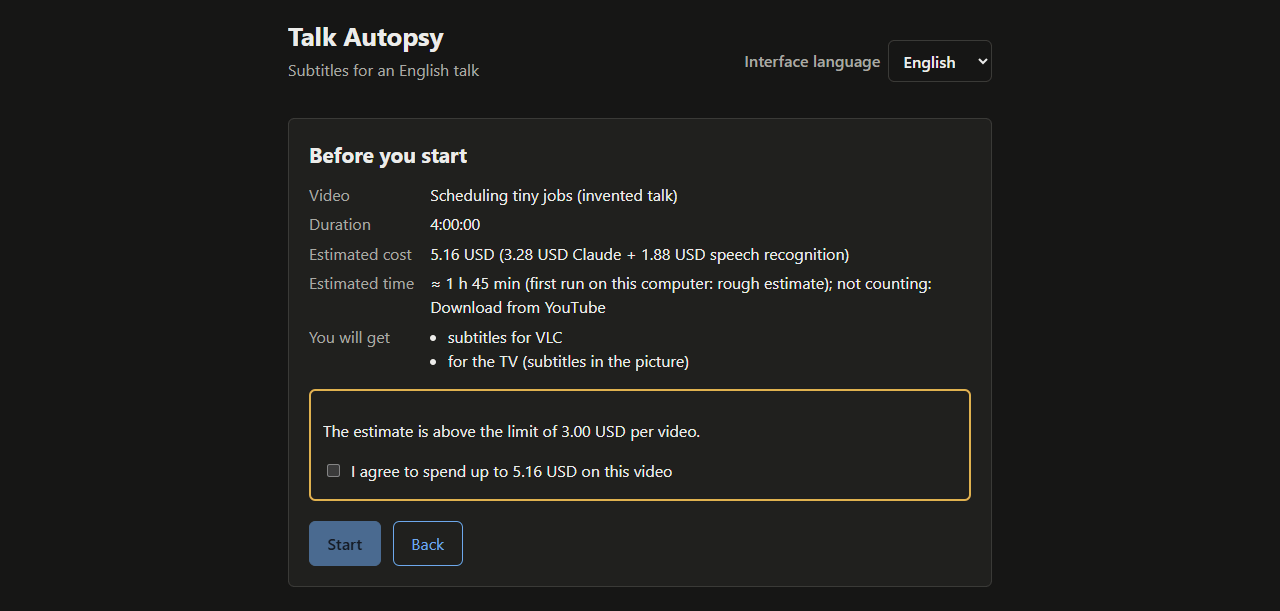
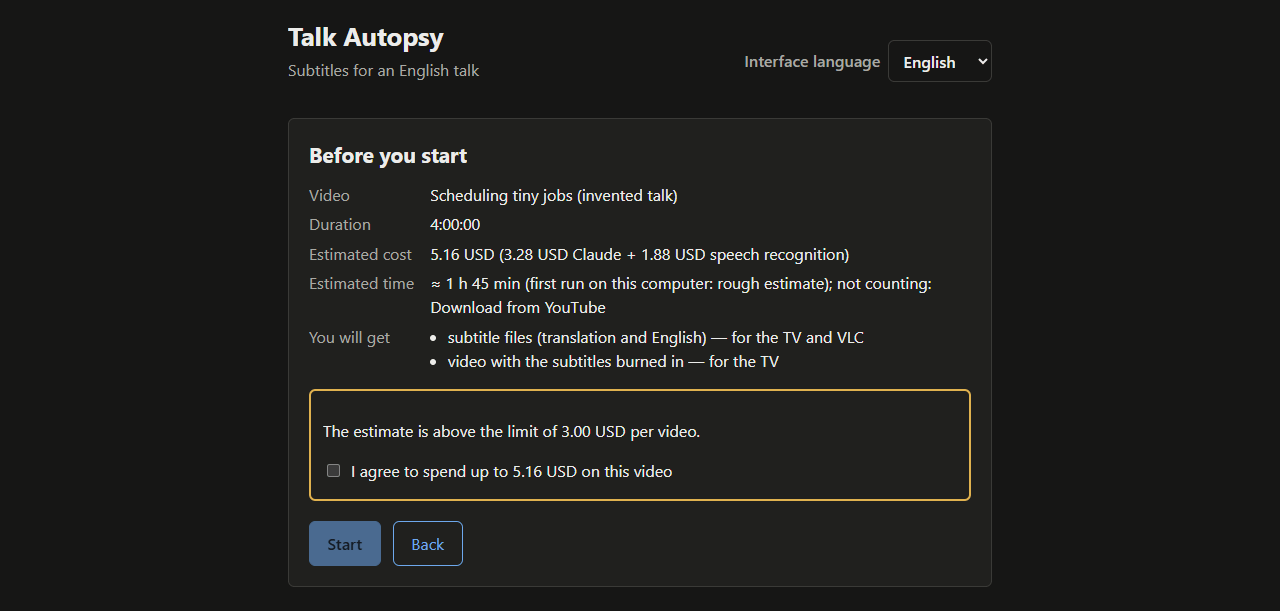
Docs: screenshots and changelog for the UI fixes
The README pictures regenerated from the synthetic replay (subtitle
buttons, technical details collapsed, plain failure reason); CHANGELOG
and the known-limitation line name what the owner's first run changed.

Changed region(s): [[0.3438, 0.5286, 0.6875, 0.6219]]

diff --git a/CHANGELOG.md b/CHANGELOG.md
@@ -64,6 +64,18 @@ re-runs).
   failed translation blocks (the accepted ones are reused, nothing is billed
   twice) and redoes a correction with a failed block. Existing finished
   results stay cached.
+- Found in the owner's first real run of the page: a part left untranslated
+  is now a plain warning with its minutes on the waiting and Done screens
+  ("Part of the video was not translated (0:00–4:55). Run this video again:
+  only that part will be translated again"), not a counter of "blocks"; the
+  core's English lines are no longer shown on a Russian page (known messages
+  become a sentence in the interface language, the rest goes under "Technical
+  details"); buttons under the player choose the subtitles (target language,
+  English, off), since Firefox's own controls offer no track menu; the file
+  list says what each file is for ("Subtitles (Russian) — for the TV and
+  VLC"); new file and folder names are cut at a word, not mid-word (older
+  folders keep their names); `meta.json`, `done.json` and the page's marker
+  moved into a hidden `.talk-autopsy` folder inside the result folder.
 
 **Pipeline (observability and cleanup only)**
 

diff --git a/README.md b/README.md
@@ -616,7 +616,8 @@ language as a parameter.
 - **A failed translation block stays in English as a whole:** if the model's
   answer for a block (about five minutes) fails the checks twice, every
   segment of that block keeps its English text, not only the one that failed.
-  Running the video again sends that block again.
+  The page says which minutes; running the video again sends that block
+  again.
 - **Reading speed** is above the usual guideline on fast speakers; nothing is cut.
 - **Timing** of subtitles is not validated against hand-labelled onsets.
 - **Next-video failure modes** not handled: several speakers (no
